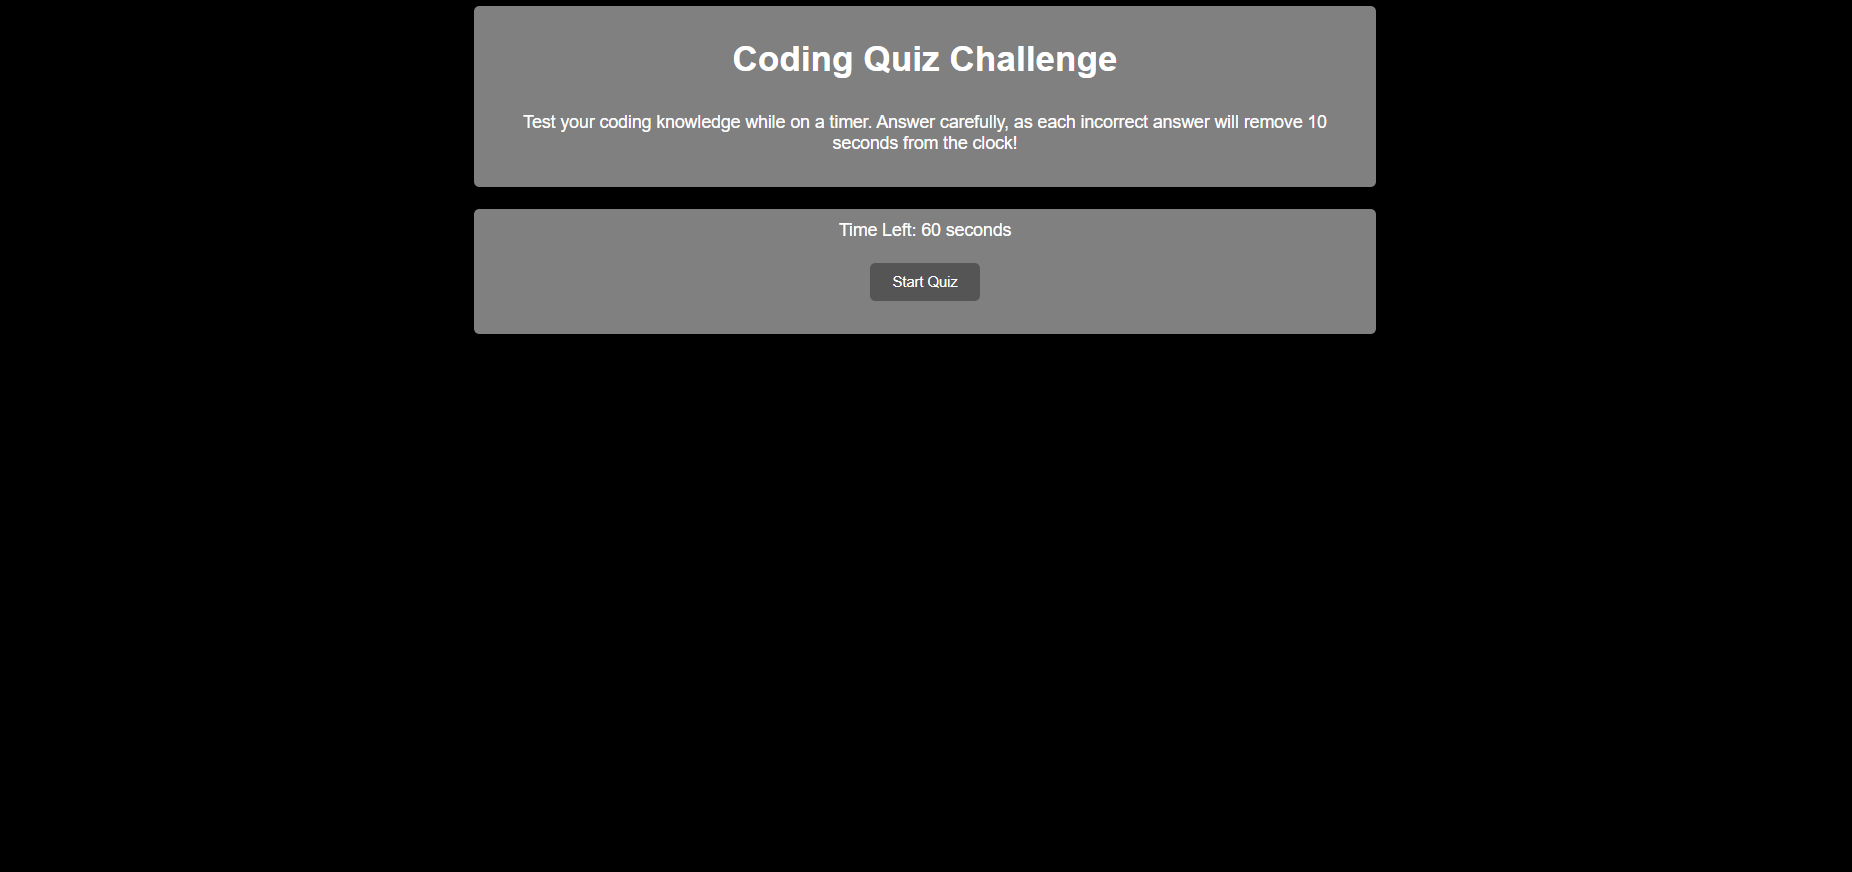
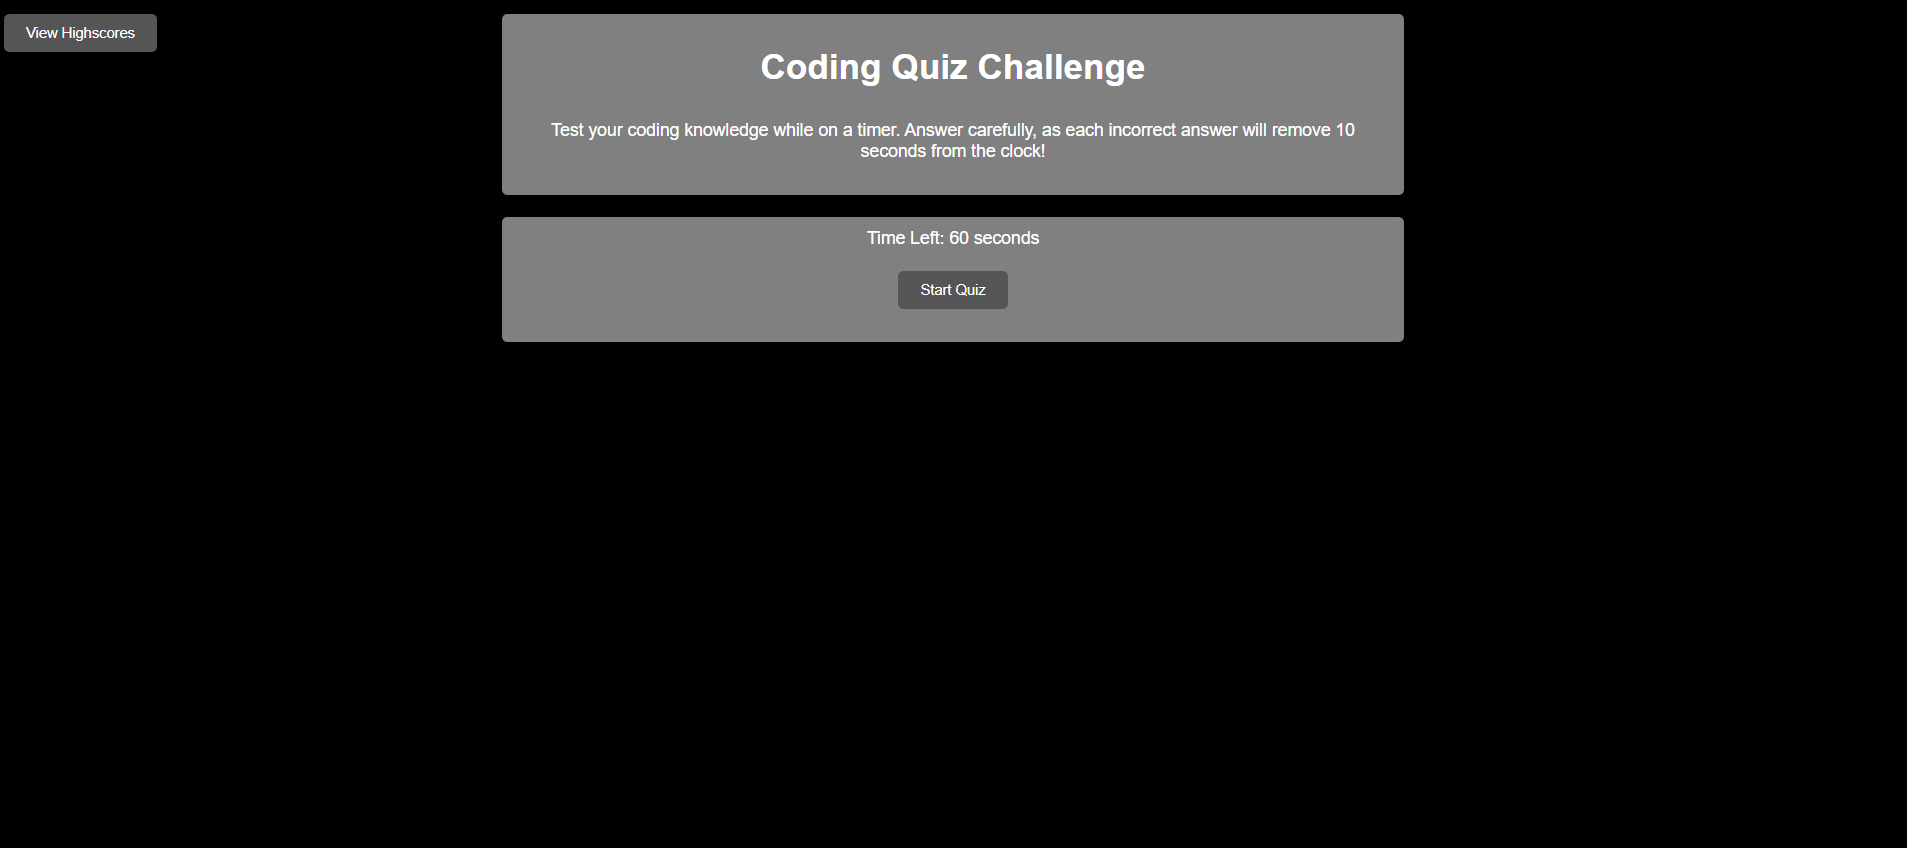
added a highscore button that will display the list of highscores that you can click anytime so that it resembles the mockup. I also created a play again button. The webpagesnip was also replaced to reflect the new webpage with the highscore button.

Changed region(s): [[0.2462, 0.0, 0.7694, 0.4292], [0.0, 0.0, 0.0923, 0.0613]]

diff --git a/Develop/script.js b/Develop/script.js
@@ -158,6 +158,7 @@ function displayHighScores() {
 
 displayHighScores();
 
+document.getElementById('play-again-btn').addEventListener('click', playAgain);
 function playAgain() {
     timer = 60;
     currentQuestion = 0;
@@ -168,4 +169,17 @@ function playAgain() {
     document.getElementById('question-container').style.display = 'none';
     document.getElementById('time-value').innerText = timer;
 }
-document.getElementById('play-again-btn').addEventListener('click', playAgain);
+
+document.getElementById('view-highscores-btn').addEventListener('click', toggleHighscores);
+function toggleHighscores() {
+    const quizSection = document.getElementById('quiz-section');
+    const highscoresSection = document.getElementById('highscores-section');
+    
+    if (quizSection.classList.contains('hidden')) {
+        quizSection.classList.remove('hidden');
+        highscoresSection.classList.add('hidden');
+    } else {
+        quizSection.classList.add('hidden');
+        highscoresSection.classList.remove('hidden');
+    }
+}

diff --git a/index.html b/index.html
@@ -16,7 +16,7 @@
   <section id="quiz-section">
       <div id="timer">Time Left: <span id="time-value">60</span> seconds</div>
       <button id="start-btn">Start Quiz</button>
-      
+      <button id="view-highscores-btn">View Highscores</button>
       <div id="question-container" class="hidden">
           <p id="question-text">Question will appear here.</p>
           <div id="answer-buttons"></div>
@@ -33,8 +33,7 @@
 
 <section id="highscores-section" class="hidden">
     <h2>High Scores</h2>
-    <ul id="highscores-list">
-    </ul>
+    <ul id="highscores-list"></ul>
     <button id="play-again-btn">Play Again</button>
 </section>
 </main>

diff --git a/Develop/style.css b/Develop/style.css
@@ -69,3 +69,8 @@ input[type="text"] {
   margin: 10px 0;
   text-align: center;
 }
+#view-highscores-btn {
+  position: absolute;
+  top: 10px;  
+  left: 10px; 
+}
